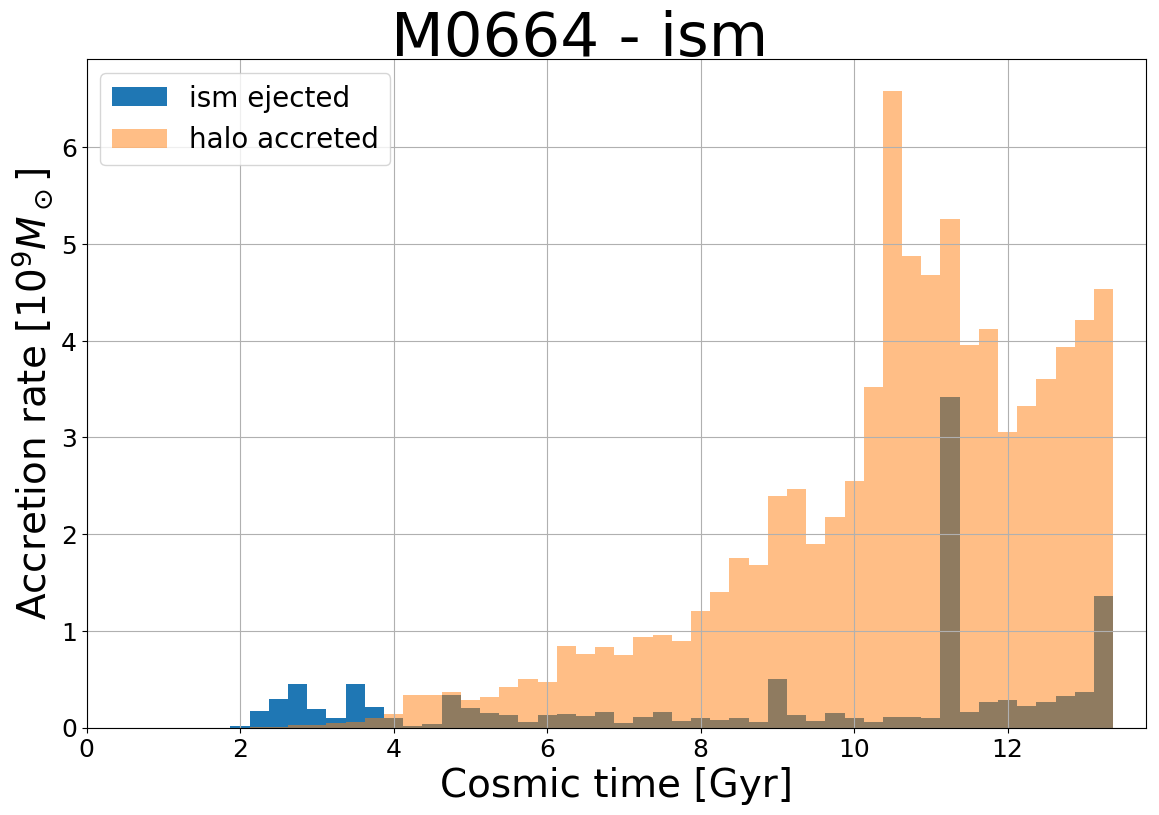
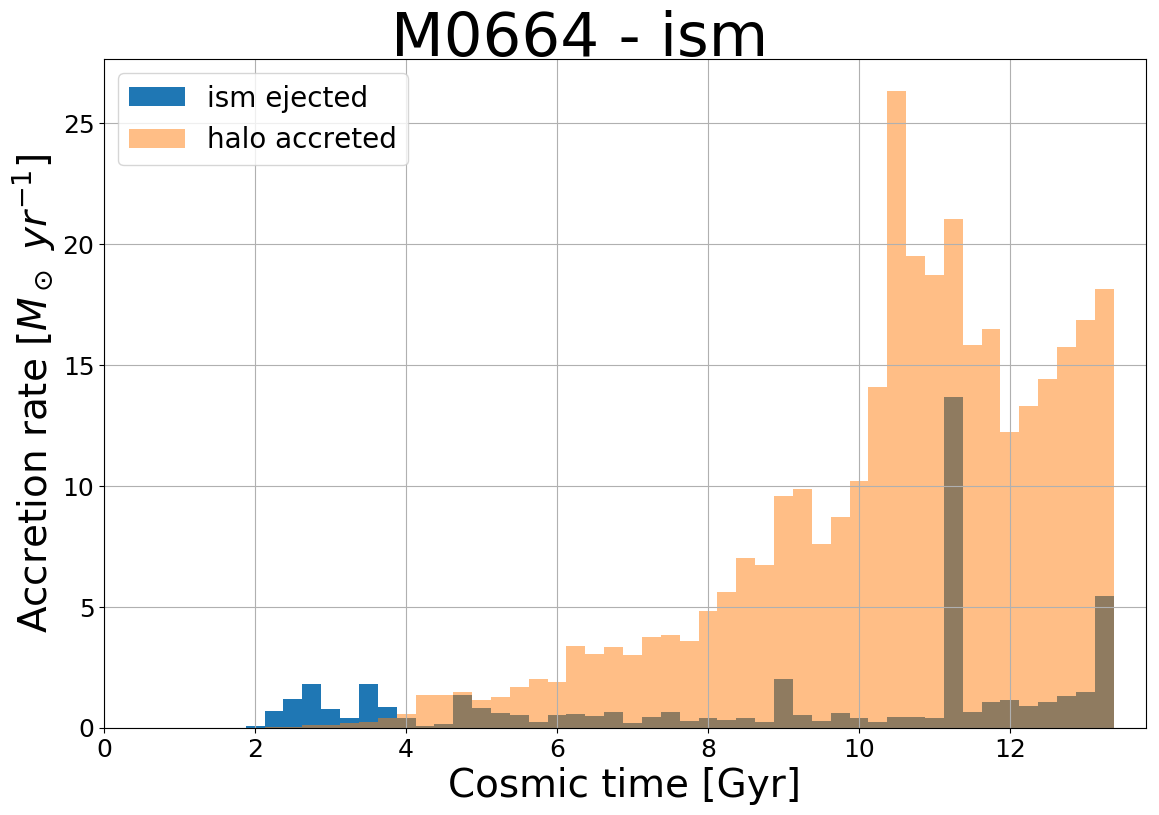
T_z0_vs_ejection fix ylabel

diff --git a/1/T_z0_vs_ejection.py b/1/T_z0_vs_ejection.py
@@ -323,12 +323,12 @@ def plot(args):
     # histogram
     f, ax = plt.subplots(1, figsize=utils.figsize[::-1])
     ax.set_xlabel('Cosmic time [Gyr]')
-    ax.set_ylabel(r'Accretion rate $[10^9M_\odot]$')
+    ax.set_ylabel(r'Accretion rate $[M_\odot\ yr^{-1}]$')
     ax.set_xlim((0, 13.8))
-    ax.bar(time_bins[:-1], last_mass_i_hist / 1e9, np.diff(time_bins),
-        label='ism ejected')
-    ax.bar(time_bins[:-1], last_mass_h_hist / 1e9, np.diff(time_bins),
-        label='halo accreted', alpha=.5)
+    ax.bar(time_bins[:-1], last_mass_i_hist / 1e0 / (1e9 * np.diff(time_bins)),
+        np.diff(time_bins), label='ism ejected')
+    ax.bar(time_bins[:-1], last_mass_h_hist / 1e0 / (1e9 * np.diff(time_bins)),
+        np.diff(time_bins), label='halo accreted', alpha=.5)
     ax.legend(loc='upper left', fontsize=20)
     f.tight_layout()
     plt.subplots_adjust(top=0.92)
